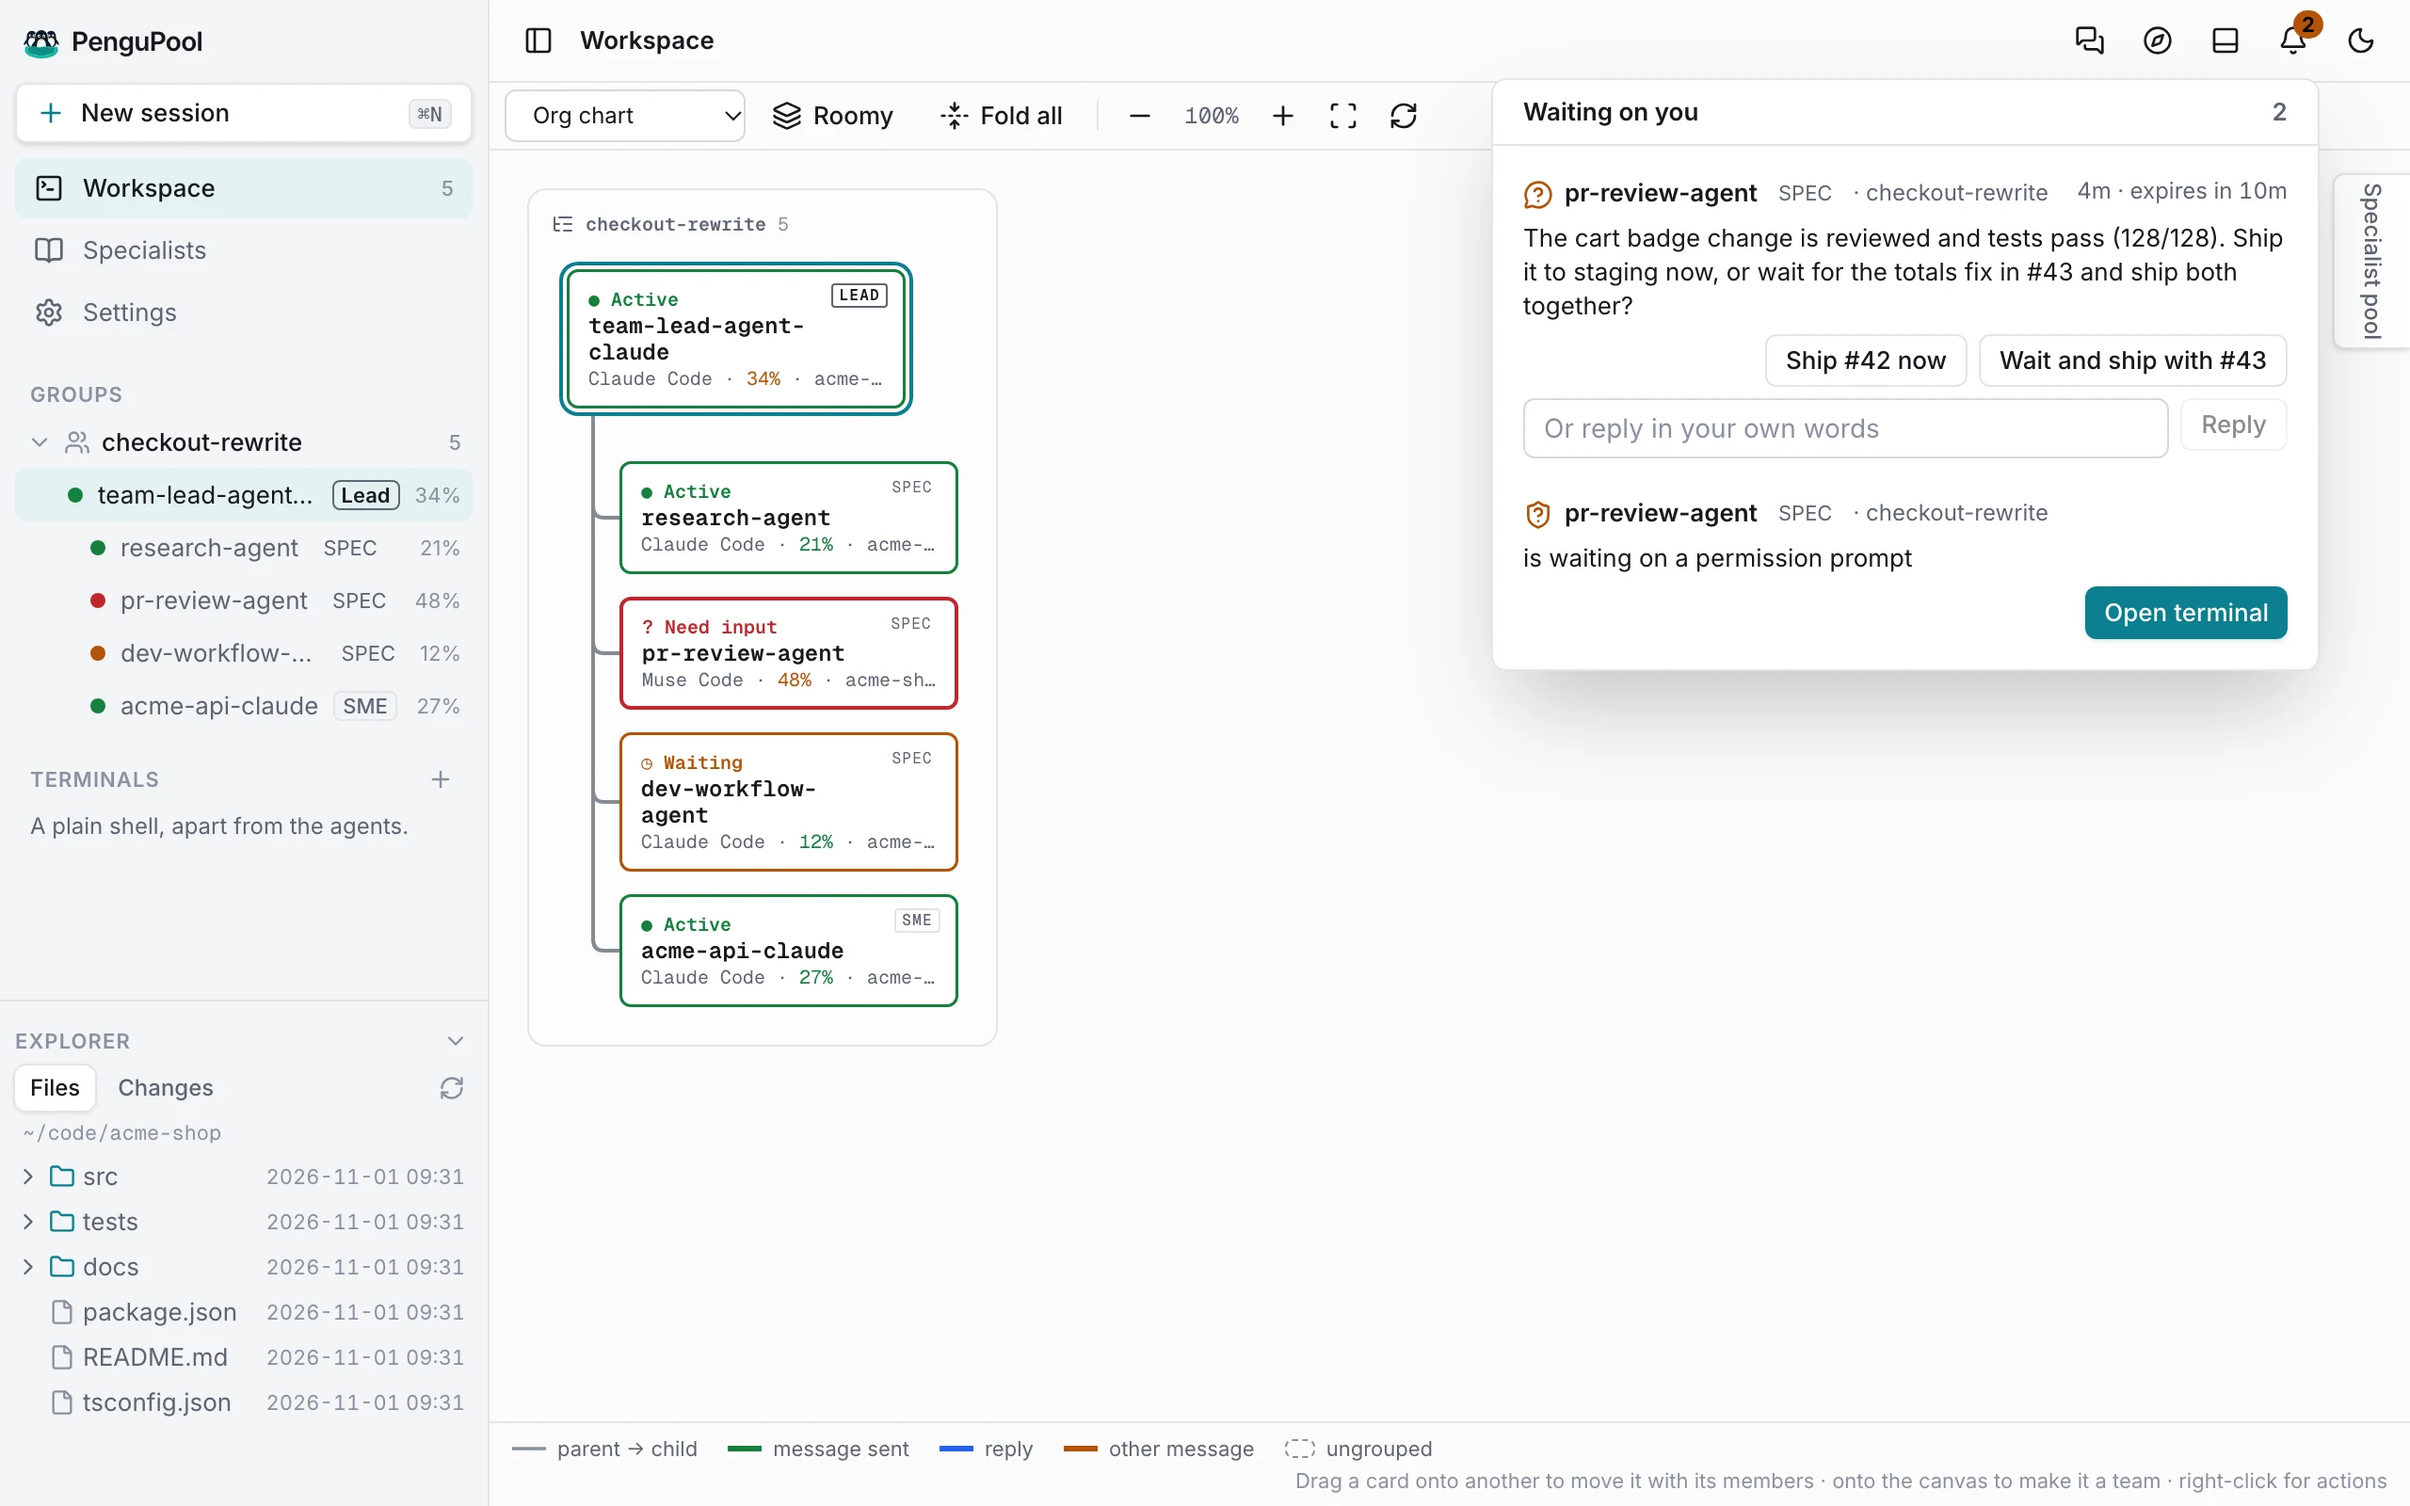
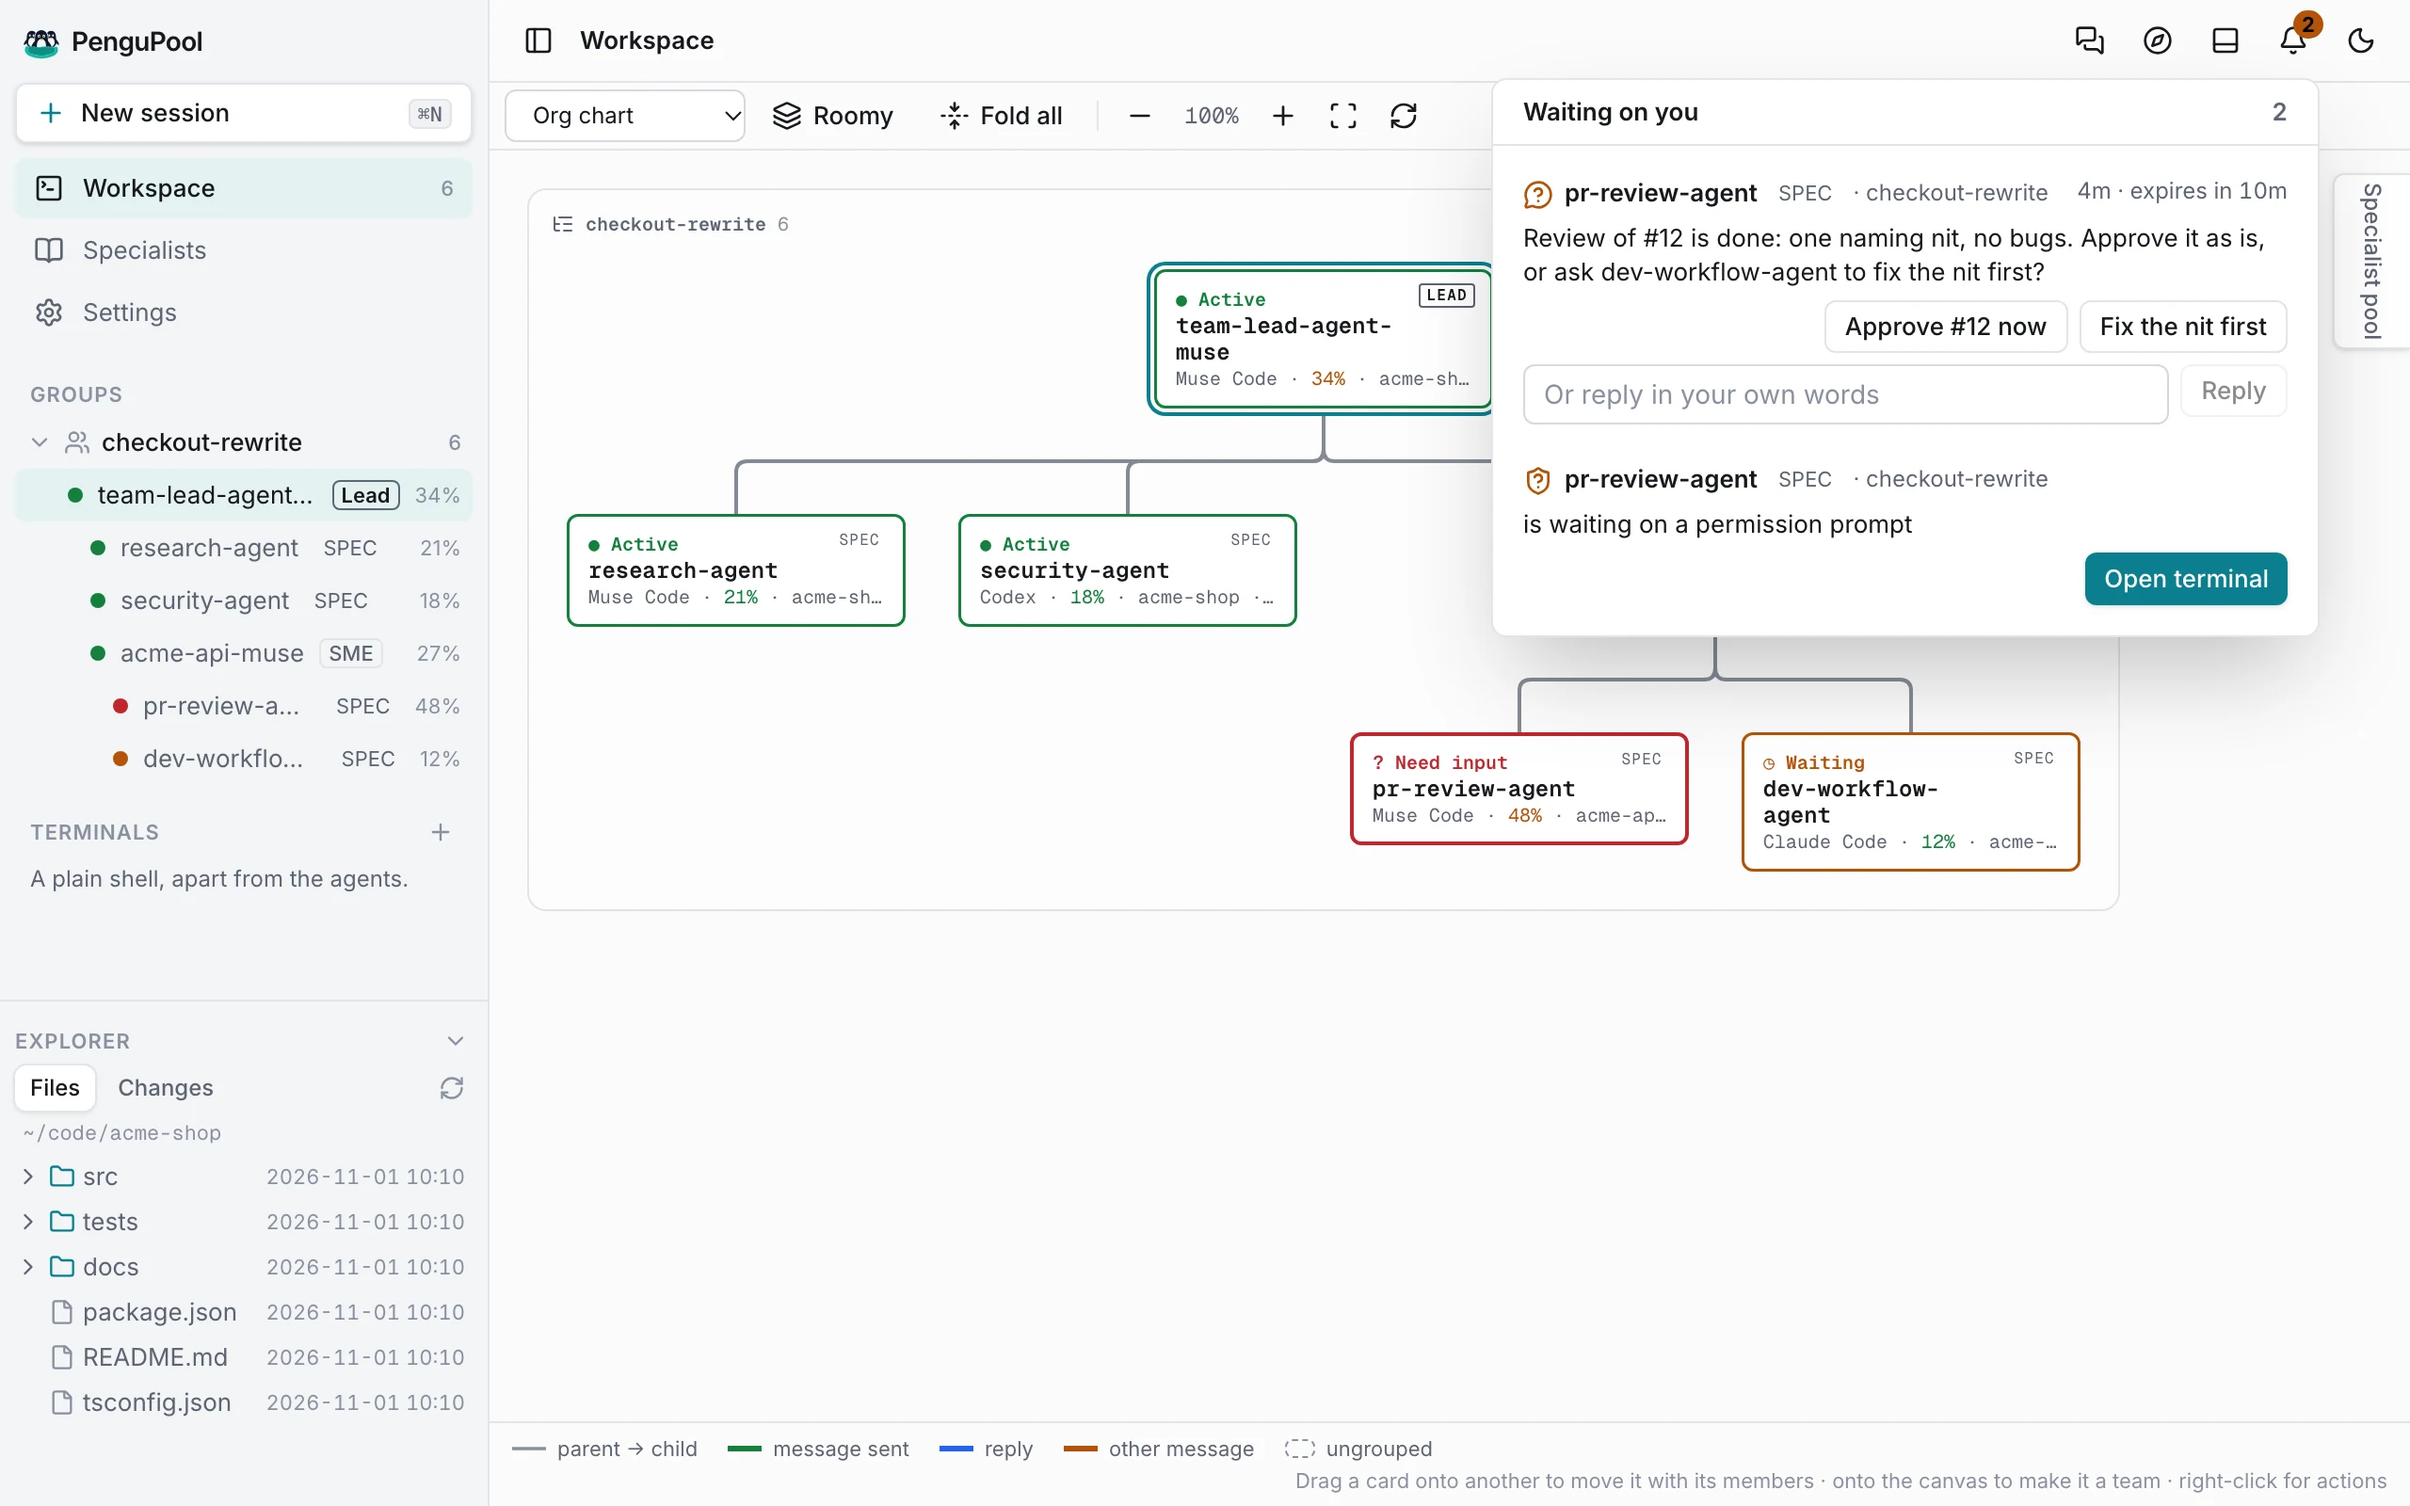
README and guide: three-level, Muse-heavy map and ask stills
The map shows a lead with specialists and an SME that leads its own specialists, mostly on Muse Code;
the ask still shows a Muse Code member's question. Alt text matches.

diff --git a/README.md b/README.md
@@ -58,7 +58,7 @@ Claude Code, Codex, pi and OMP join the same workspace, teams and Compass as Mus
 
 <picture>
   <source media="(prefers-color-scheme: dark)" srcset="assets/screenshots/screen-map-dark.webp">
-  <img alt="The team map: team-lead-agent with three specialists (pr-review-agent on Muse Code) and an SME, a lit route, and an open ask" src="assets/screenshots/screen-map-light.webp">
+  <img alt="The team map, three levels: team-lead-agent (LEAD, Muse Code) leads research-agent (Muse Code), security-agent (Codex) and acme-api-muse (SME, Muse Code), which in turn leads pr-review-agent (Muse Code) and dev-workflow-agent (Claude Code). Lit routes and an open ask from research-agent." src="assets/screenshots/screen-map-light.webp">
 </picture>
 
 <sub>Illustrative UI with synthetic project data.</sub>

diff --git a/docs/guide.md b/docs/guide.md
@@ -50,7 +50,7 @@ specialist. You can list, open and delete entries on the Specialists page.
 
 <picture>
   <source media="(prefers-color-scheme: dark)" srcset="../assets/screenshots/screen-ask-dark.webp">
-  <img alt="Waiting on you: an agent's question with its options, answered from the notification" src="../assets/screenshots/screen-ask-light.webp">
+  <img alt="Waiting on you: pr-review-agent (Muse Code) asks whether to approve PR #12, with its options, answered from the notification. The three-level team is behind it." src="../assets/screenshots/screen-ask-light.webp">
 </picture>
 
 Questions, check-ins and permission prompts collect under the bell. Each shows who asks, their team,
